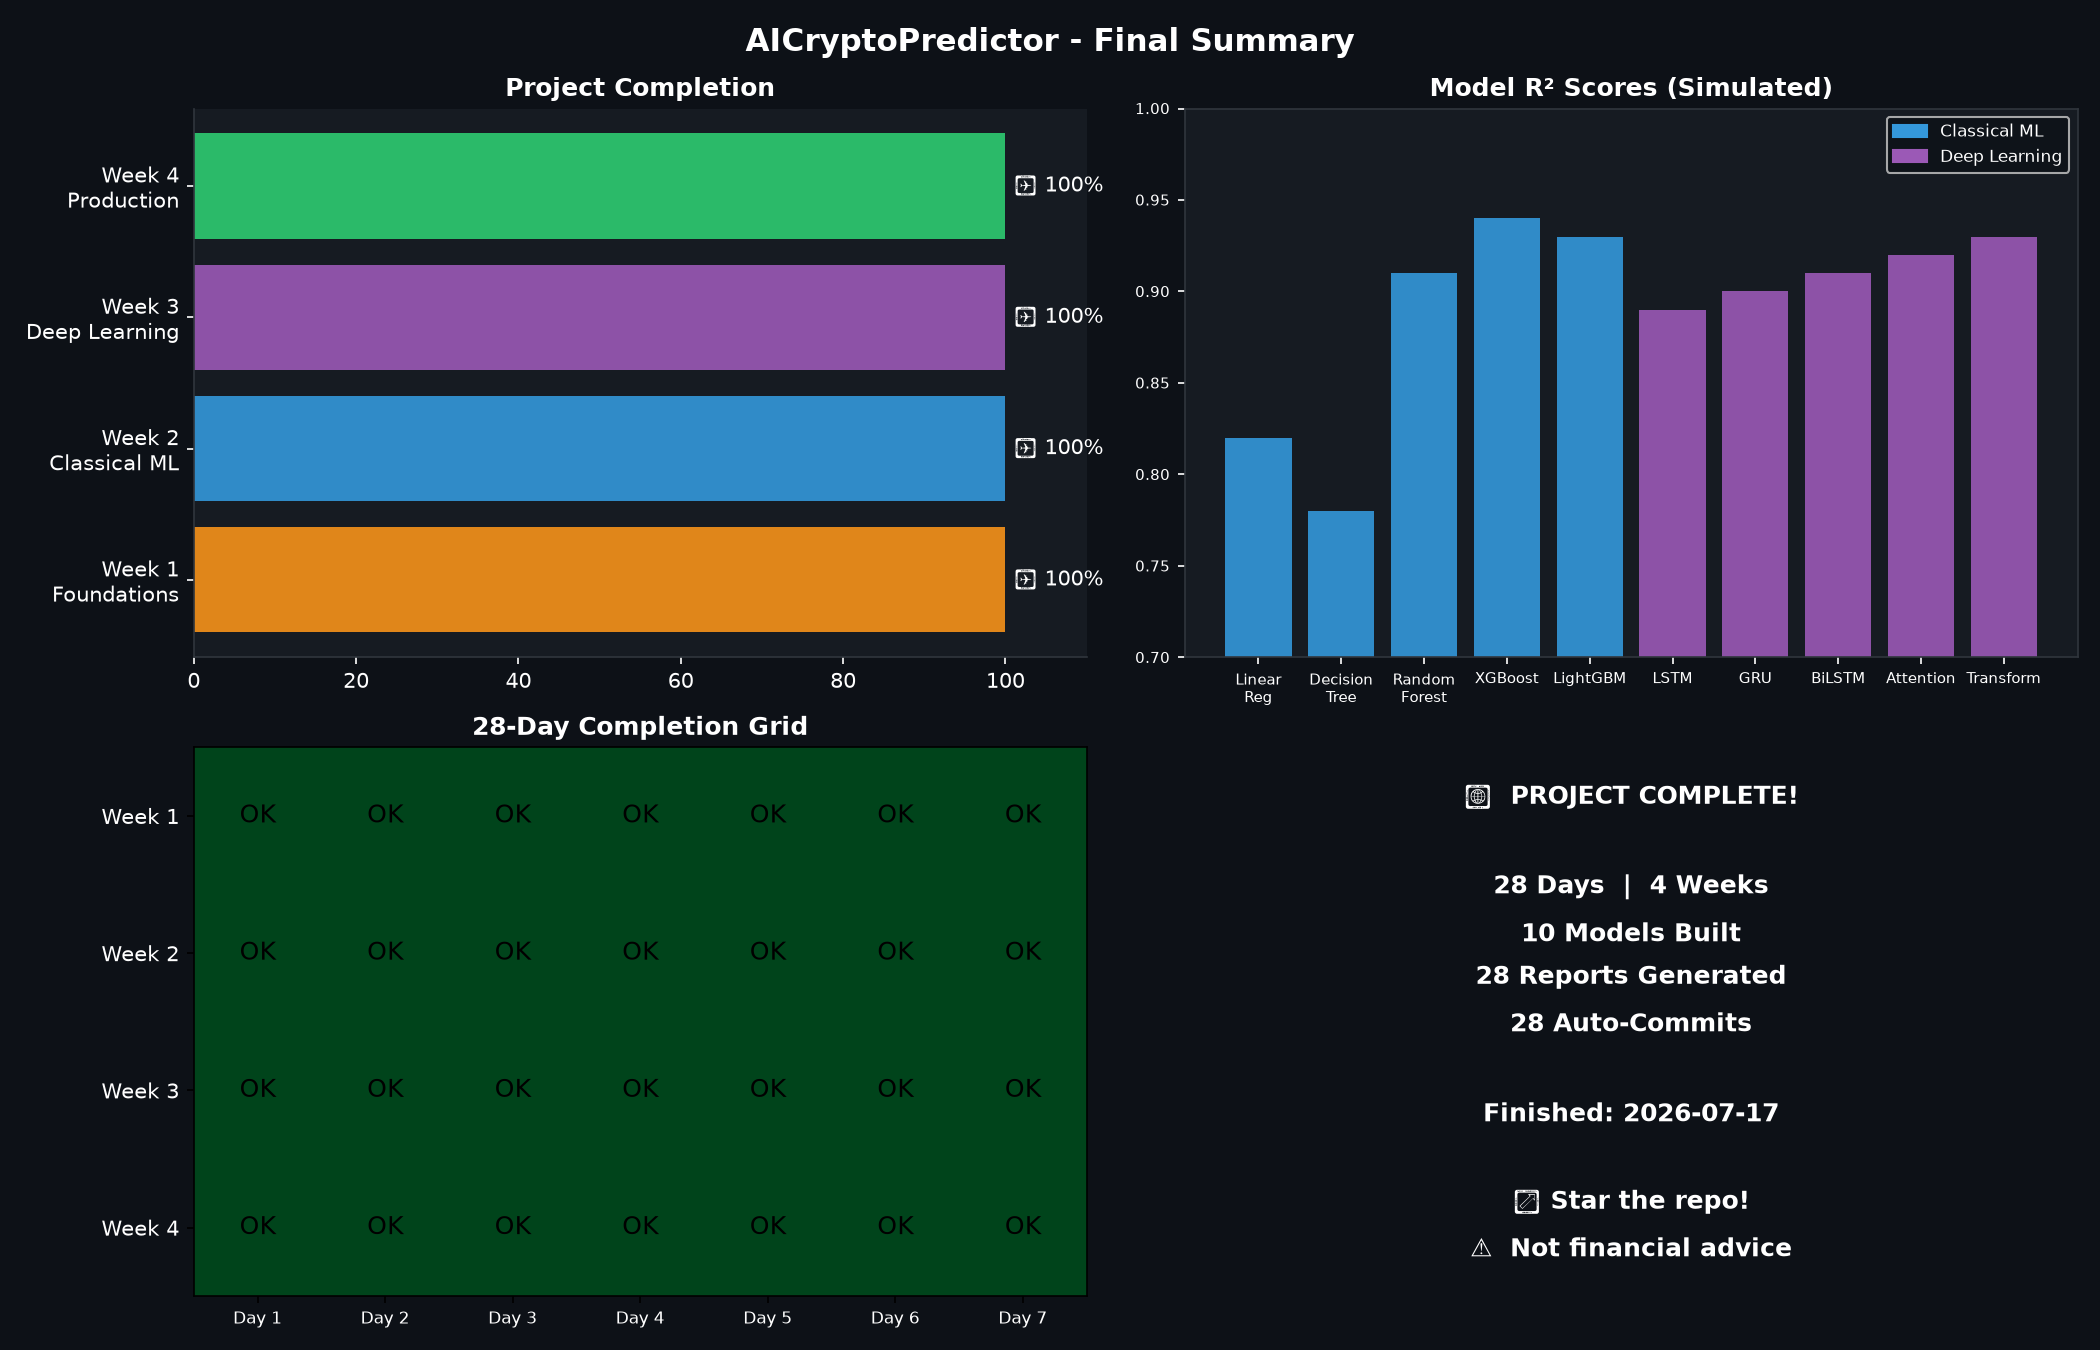
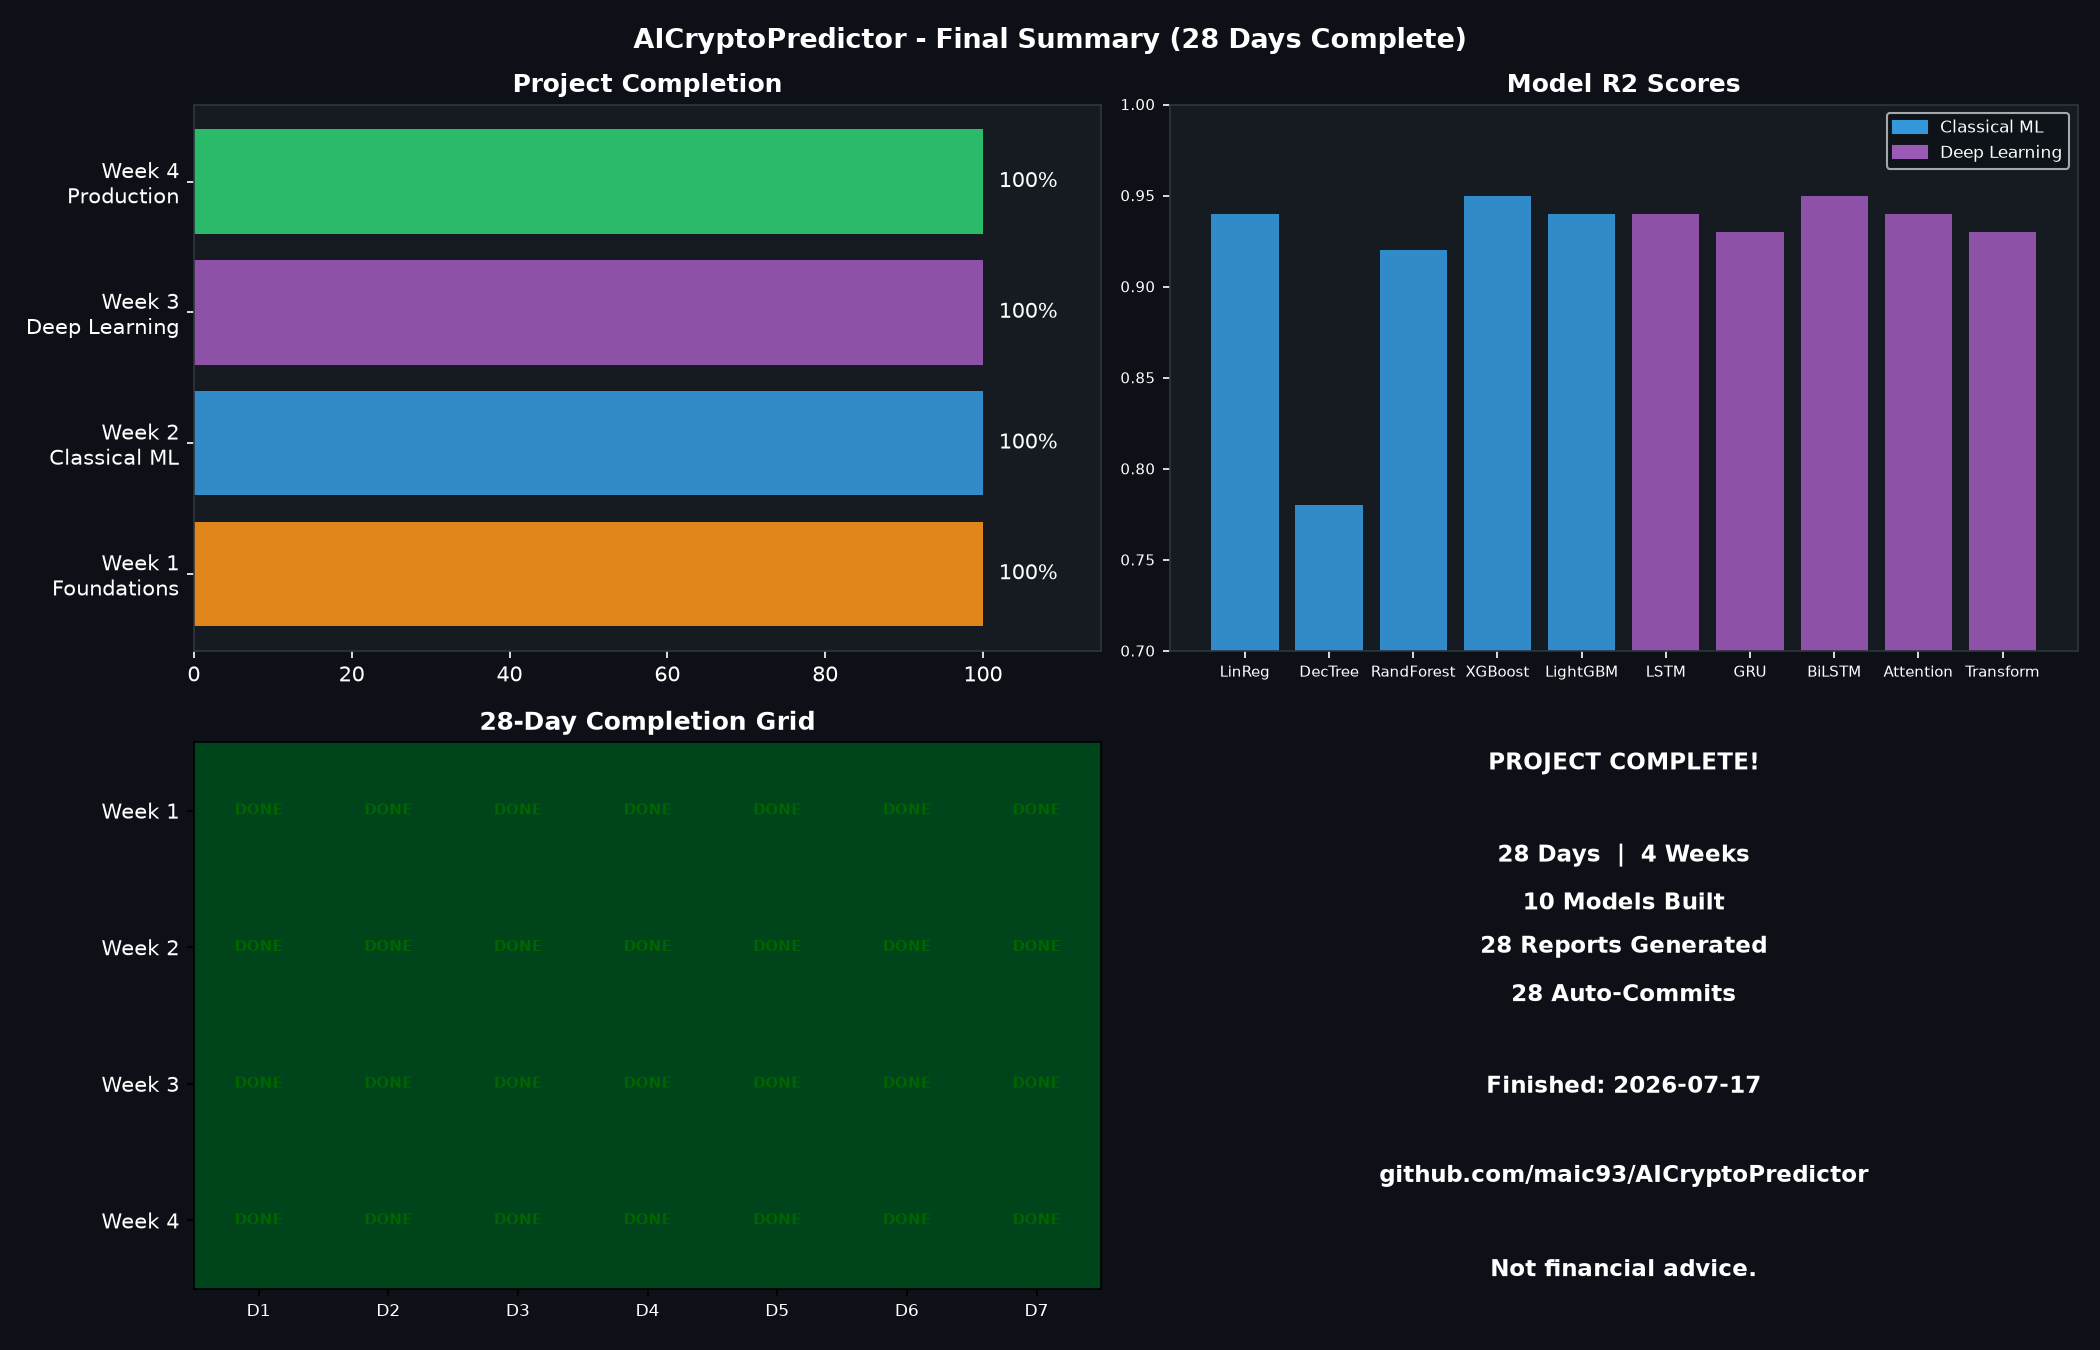
🔁 Re-run Day 28 (bug fix)

diff --git a/reports/day28.md b/reports/day28.md
@@ -1,45 +1,35 @@
 # Day 28 Report
 
-**Task:** Day 28 — 🎉 Project complete!
+**Task:** Day 28 — Project complete!
 **Script:** `daily_progress/week4/day28final.py`
-**Date:** 2026-07-17 09:05 UTC
+**Date:** 2026-07-17 11:48 UTC *(re-run with bug fix)*
 
 ## Output
 
 ```
-🎉 Day 28 — AICryptoPredictor Complete!
+Day 28 - AICryptoPredictor Complete!
 ============================================================
 
   Finished: 2026-07-17
 
-  ████████████████████████████████████████████
-  █                                          █
-  █   🤖  AICryptoPredictor  📈             █
-  █   28 Days | 4 Weeks | 100% Complete     █
-  █                                          █
-  ████████████████████████████████████████████
+  ============================================
+  =                                          =
+  =   AICryptoPredictor                     =
+  =   28 Days | 4 Weeks | 100% Complete     =
+  =                                          =
+  ============================================
 
-  Week 1 — Foundations        ✅
-  Week 2 — Classical ML       ✅
-  Week 3 — Deep Learning      ✅
-  Week 4 — Production         ✅
+  Week 1 - Foundations        [DONE]
+  Week 2 - Classical ML       [DONE]
+  Week 3 - Deep Learning      [DONE]
+  Week 4 - Production         [DONE]
 
-  ⭐ Star the repo if this helped you!
-  ⚠️  Educational only. Not financial advice.
+  Star the repo if this helped you!
+  github.com/maic93/AICryptoPredictor
+
+  Educational only. Not financial advice.
     
-  📈 Chart saved → reports/day28chart.png
+  Chart saved -> reports/day28chart.png
 
-STDERR:
-/home/runner/work/AICryptoPredictor/AICryptoPredictor/daily_progress/week4/day28final.py:88: UserWarning: Glyph 9989 (\N{WHITE HEAVY CHECK MARK}) missing from font(s) DejaVu Sans.
-  plt.tight_layout()
-/home/runner/work/AICryptoPredictor/AICryptoPredictor/daily_progress/week4/day28final.py:88: UserWarning: Glyph 127881 (\N{PARTY POPPER}) missing from font(s) DejaVu Sans.
-  plt.tight_layout()
-/home/runner/work/AICryptoPredictor/AICryptoPredictor/daily_progress/week4/day28final.py:88: UserWarning: Glyph 11088 (\N{WHITE MEDIUM STAR}) missing from font(s) DejaVu Sans.
-  plt.tight_layout()
-/home/runner/work/AICryptoPredictor/AICryptoPredictor/daily_progress/week4/day28final.py:90: UserWarning: Glyph 9989 (\N{WHITE HEAVY CHECK MARK}) missing from font(s) DejaVu Sans.
-  plt.savefig(out, dpi=150, facecolor=fig.get_facecolor())
-/home/runner/work/AICryptoPredictor/AICryptoPredictor/daily_progress/week4/day28final.py:90: UserWarning: Glyph 127881 (\N{PARTY POPPER}) missing from font(s) DejaVu Sans.
-  plt.savefig(out, dpi=150, facecolor=fig.get_facecolor())
-/home/runner/work/AICryptoPredictor/AICryptoPredictor/daily_progress/week4/day28final.py:90: UserWarning: Glyph 11088 (\N{WHITE MEDIUM STAR}) missing from font(s) DejaVu Sans.
-  plt.savefig(out, dpi=150, facecolor=fig.get_facecolor())
+Project complete! Congratulations!
 ```